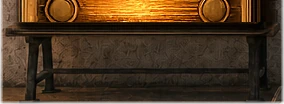
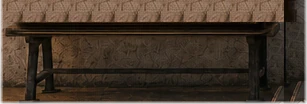
GAS 2 radio: radio + bench slide left for room from the pump

diff --git a/tools/_gas2-scene/player/radio.css b/tools/_gas2-scene/player/radio.css
@@ -8,16 +8,17 @@
 #scene #radio { visibility: hidden; }
 /* the caption: on the porch floor under the bench, never wider than the radio (Yoni 2026-10-23: "contained in the
    radio size"): the dock's own width and centre, two lines (the station, then the side + its settings) */
-#scene #radioCap { left: calc(12.5cqw - 15cqw * 1.3 / 2); width: calc(15cqw * 1.3); top: 77.4%; z-index: 3;
+#scene #radioCap { left: calc(11.0026cqw - 15cqw * 1.3 / 2); width: calc(15cqw * 1.3); top: 77.4%; z-index: 3;
   white-space: normal; letter-spacing: .14em; line-height: 1.35; }
 #scene #radioCap span { display: block; white-space: nowrap; overflow: hidden; text-overflow: clip; }
 
 /* a lower bench (Yoni 2026-10-23: "make the stool a bit lower"): the frame's own bench, its top moved from frame y 688
    to 710 and the legs shortened to the same floor (tools/bench_patch.py); the frame file itself is untouched */
-.rp-bench { position: absolute; left: 3.776%; top: 67.1875%; width: 18.4896%; height: 10.1562%; z-index: 1; pointer-events: none; }
-/* the dock: centred where the photo's radio stands (frame x 192 of 1536), sitting on the lowered bench (frame y 710 of
+.rp-bench { position: absolute; left: 2.2786%; top: 67.1875%; width: 19.987%; height: 10.1562%; z-index: 1; pointer-events: none; }
+/* the dock: centred where the photo's radio stood, moved 23 frame px left for room from the pump (Yoni 2026-10-23):
+   frame x 169 of 1536 = 11.0026cqw (bench_patch.py DX); sitting on the lowered bench (frame y 710 of
    1024 = 46.224cqw); the radio's body is 936 x 555 plate px. --rs = the size against the photo's radio (230 px = 15cqw) */
-.rp-dock { --rs: 1.3; --w: calc(15cqw * var(--rs)); position: absolute; left: calc(12.5cqw - var(--w) / 2);
+.rp-dock { --rs: 1.3; --w: calc(15cqw * var(--rs)); position: absolute; left: calc(11.0026cqw - var(--w) / 2);
   top: calc(46.224cqw - var(--w) * 555 / 936); width: var(--w); aspect-ratio: 936 / 555; z-index: 2;
   /* the porch lamp hangs up and to the right: the radio throws its shadow down-left onto the wall */
   filter: drop-shadow(-.45cqw .35cqw .5cqw rgba(14, 7, 3, .55)) drop-shadow(-.1cqw .1cqw .12cqw rgba(14, 7, 3, .5)); }

diff --git a/tools/_gas2-scene/player/tools/bench_patch.py b/tools/_gas2-scene/player/tools/bench_patch.py
@@ -2,7 +2,9 @@
 (frames/f6-v17.png stays untouched: it is Dan's). The patch is laid over the frame under the radio:
   rows NEW_TOP..FLOOR  = the frame's bench rows OLD_TOP..FLOOR squashed into the shorter height (top + shorter legs)
   rows OLD_TOP..NEW_TOP = the wall above, copied from 48 rows higher (the radio covers most of it; its corners don't)
-Frame px (1536 x 1024). radio.css places img/bench-low.webp at X0, OLD_TOP in scene % and stands the radio on NEW_TOP.
+  + shifted DX px left with the radio (Yoni 2026-10-23: a little space from the pump); the strip it leaves on the right
+    takes the stucco + floor between the old right leg and the pump (x 323..346)
+Frame px (1536 x 1024). radio.css places img/bench-low.webp at X0 - DX, OLD_TOP in scene % and stands the radio on NEW_TOP.
 Usage: python player/tools/bench_patch.py"""
 import os
 import numpy as np
@@ -13,17 +15,23 @@ SCENE = os.path.dirname(os.path.dirname(HERE))
 X0, X1 = 58, 342            # the bench's width (frame x 63..337) + a little
 OLD_TOP, FLOOR = 688, 792   # the radio stood on 688; the feet end ~790
 NEW_TOP = 710               # the bench top now
+DX = 23                     # the bench (and the radio on it) moved left, frame px (radio centre 192 -> 169)
+L = X0 - DX                 # the patch's left edge
 
 
 def main():
     f = np.asarray(Image.open(os.path.join(SCENE, 'frames', 'f6-v17.png')).convert('RGB')).astype(np.float32)
-    H = FLOOR - OLD_TOP
-    out = np.zeros((H, X1 - X0, 3), np.float32)
-    out[:NEW_TOP - OLD_TOP] = f[OLD_TOP - 48:NEW_TOP - 48, X0:X1]                    # wall
+    H, W = FLOOR - OLD_TOP, X1 - L
+    out = f[OLD_TOP:FLOOR, L:X1].copy()
+    # the strip the bench leaves: the stucco + floor between the old right leg and the pump (x 323..346), which is clean
+    # under the bench top; the top's own rows take the same columns from higher up the wall
+    out[:NEW_TOP - OLD_TOP] = np.tile(f[OLD_TOP:NEW_TOP, 30:30 + DX], (1, W // DX + 1, 1))[:, :W]   # wall behind the radio
+    out[:, W - DX:] = f[OLD_TOP:FLOOR, 323:323 + DX]
+    out[:NEW_TOP - OLD_TOP, W - DX:] = f[OLD_TOP - 48:NEW_TOP - 48, 323:323 + DX]
     src = Image.fromarray(f[OLD_TOP:FLOOR, X0:X1].astype(np.uint8))
-    out[NEW_TOP - OLD_TOP:] = np.asarray(src.resize((X1 - X0, FLOOR - NEW_TOP), Image.LANCZOS)).astype(np.float32)
+    out[NEW_TOP - OLD_TOP:, :W - DX] = np.asarray(src.resize((X1 - X0, FLOOR - NEW_TOP), Image.LANCZOS)).astype(np.float32)
     # feather the left / right edges and the bottom into the frame (2 px), so the patch has no seam
-    a = np.ones((H, X1 - X0), np.float32)
+    a = np.ones((H, W), np.float32)
     for i in range(3):
         a[:, i] *= (i + 1) / 4; a[:, -1 - i] *= (i + 1) / 4; a[-1 - i, :] *= (i + 1) / 4
     im = Image.fromarray(np.clip(out, 3, 252).astype(np.uint8)).convert('RGBA')
@@ -31,8 +39,8 @@ def main():
     dst = os.path.join(os.path.dirname(HERE), 'img', 'bench-low.webp')
     im.save(dst, quality=90, method=6)
     print(dst, im.size, os.path.getsize(dst), 'bytes')
-    print(f'css: left {X0 / 15.36:.4f}%  top {OLD_TOP / 10.24:.4f}%  width {(X1 - X0) / 15.36:.4f}%  height {H / 10.24:.4f}%  '
-          f'radio bottom {NEW_TOP / 1024 * 200 / 3:.4f}cqw')
+    print(f'css: left {L / 15.36:.4f}%  top {OLD_TOP / 10.24:.4f}%  width {W / 15.36:.4f}%  height {H / 10.24:.4f}%  '
+          f'radio bottom {NEW_TOP / 1024 * 200 / 3:.4f}cqw  radio centre {(192 - DX) / 15.36:.4f}cqw')
 
 
 if __name__ == '__main__':

diff --git a/tasks/gas2-radio-plan.md b/tasks/gas2-radio-plan.md
@@ -147,3 +147,4 @@ Picks (Yoni): play / stop = a 3rd key on the radio + a red jewel lamp; Fly-in fr
   the radio stands on 710 (46.224cqw). Caption moved to the porch floor (top 77.8 %). Dial prints ELEC. (the caption
   keeps ELECTRONIC); sizes kept (Yoni: "keep the original size").
 - Caption contained in the radio width (Yoni 2026-10-23): the dock's width + centre, two lines (station / side + settings); measured inside the radio at 1280 / 1440 / 1920.
+- Room from the pump (Yoni 2026-10-23, picked "slide the radio left" over moving Dan's pump): radio + bench + caption 23 frame px left (centre 11.0026cqw; bench_patch.py DX); the strip the bench leaves = the clean stucco + floor between the old right leg and the pump (x 323..346). Gap to the pump ~30 px at 1440.
